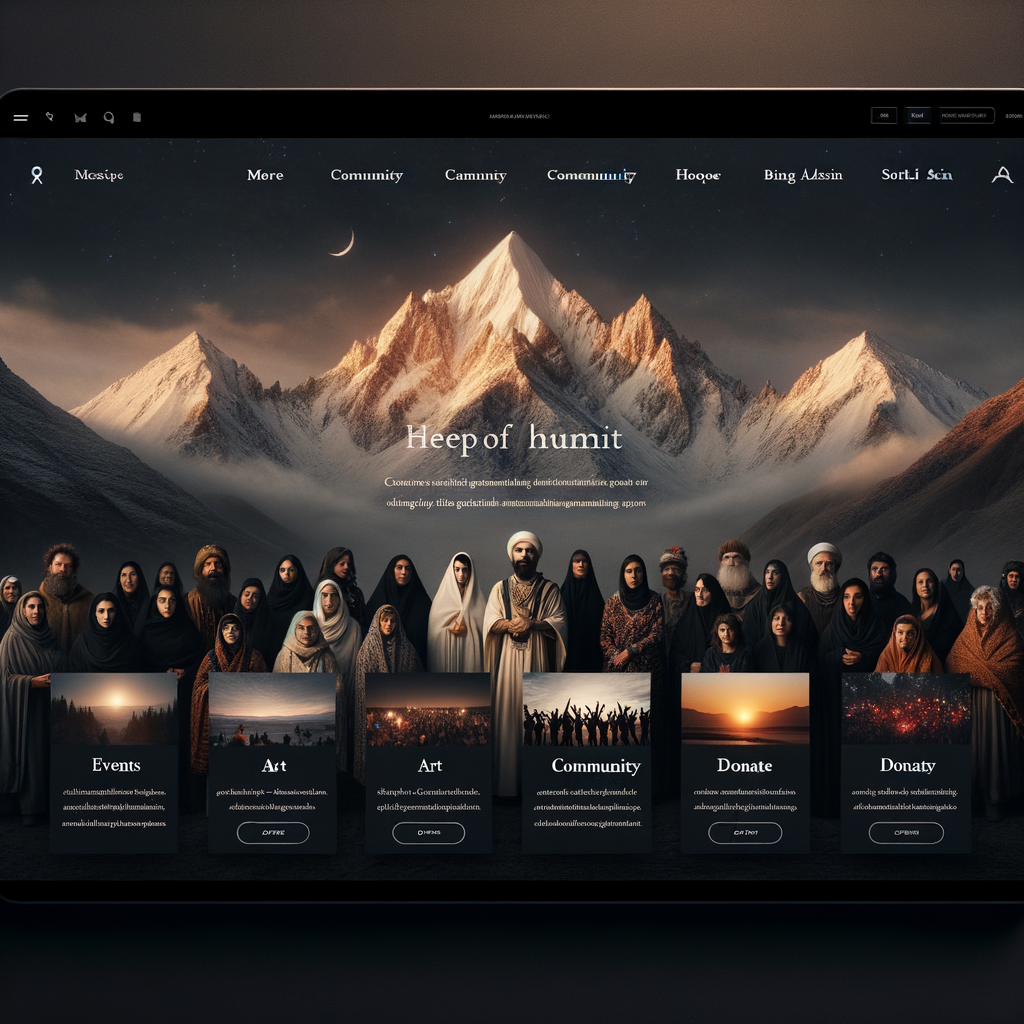
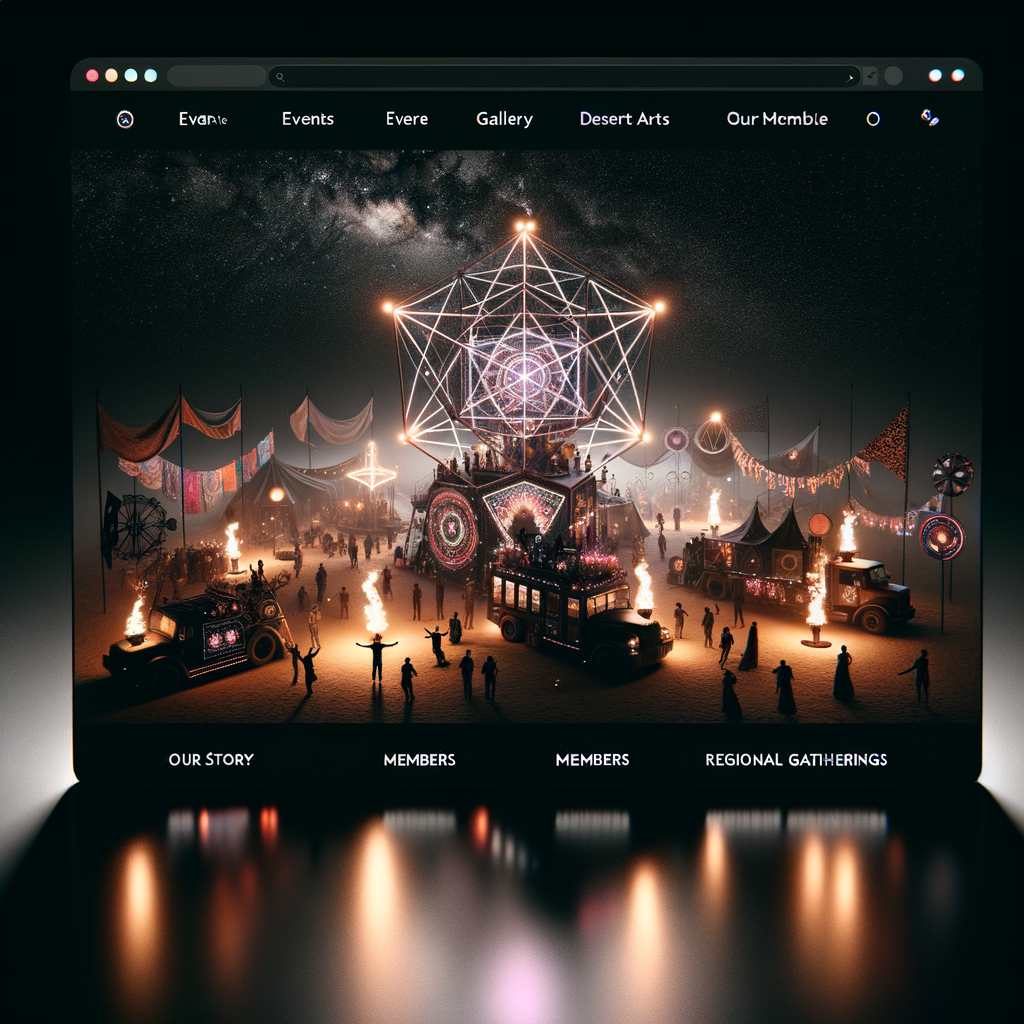
fix: Update Camp Alborz image to reflect Burning Man community
- Replace generic community image with Burning Man theme camp aesthetic
- Show art installations, fire performances, desert playa vibes
- Update prompt to capture creative expression and maker culture

diff --git a/scripts/generate-project-image.js b/scripts/generate-project-image.js
@@ -93,21 +93,19 @@ Photorealistic rendering with abstract elements. Think: if fact-checking was vis
   },
   camp_alborz: {
     name: 'Camp Alborz',
-    prompt: `The majestic Alborz mountain range silhouetted against a star-filled night sky, with ethereal threads of light connecting points across the peaks and valleys.
+    prompt: `A stylized screenshot of a Burning Man theme camp community website, displayed at a slight 3D angle floating in a pure black void.
 
-The mountains dominate the lower third of the frame — dramatic, ancient, grounding. Snow-capped peaks catch faint moonlight. This is Mount Damavand and its surrounding range, rendered with reverence.
+The website has a dark theme with the following elements visible:
+- Hero section showing a stunning night photo of an art installation in the desert - a large geometric sculpture glowing with LED lights against a starry playa sky
+- Camp name "CAMP ALBORZ" in elegant typography
+- Navigation showing: Events, Gallery, Members, Our Story
+- A grid of photos showing: fire spinning performances, art cars, people dancing at sunset, a decorated camp with colorful fabrics and lights, group photos of happy campers in costume
+- Upcoming events section with "Burning Man 2025" and "Regional Burns" listed
+- The vibe is creative, welcoming, artistic - a community of makers and dreamers
 
-Above and across the mountains, a constellation of small glowing points represents people — scattered across the peaks, in valleys, extending beyond the frame to suggest a global network. Thin, delicate lines of light connect these points, forming a web of human connection that spans continents.
+The screenshot has dark/noir color grading applied - desaturated with deep blacks, but the fire and LED elements retain warm orange/amber glow as accent colors.
 
-The connections pulse gently with warmth — despite the cold mountain setting and dark sky, there's an unmistakable sense of human warmth, of friendship, of shared dreams.
-
-A single campfire glows in a valley — tiny but warm — the origin point, the gathering place from which all connections spread.
-
-The mood: Belonging. Legacy. Friends and family across the world, united by shared experiences and dreams.
-
-Color palette: Deep night sky blacks and dark blues, silver moonlight on peaks, warm golden-white for the connection points and campfire. Stars as tiny white dots.
-
-Cinematic, epic landscape photography meets data visualization. Think: if human connection was mapped across sacred mountains.`,
+Subtle reflection beneath the floating screenshot. Clean, modern web design aesthetic. The image should immediately convey: art, fire, community, desert, creative expression, Burning Man culture.`,
     filename: 'camp_alborz_noir.png'
   },
   portfolio: {
